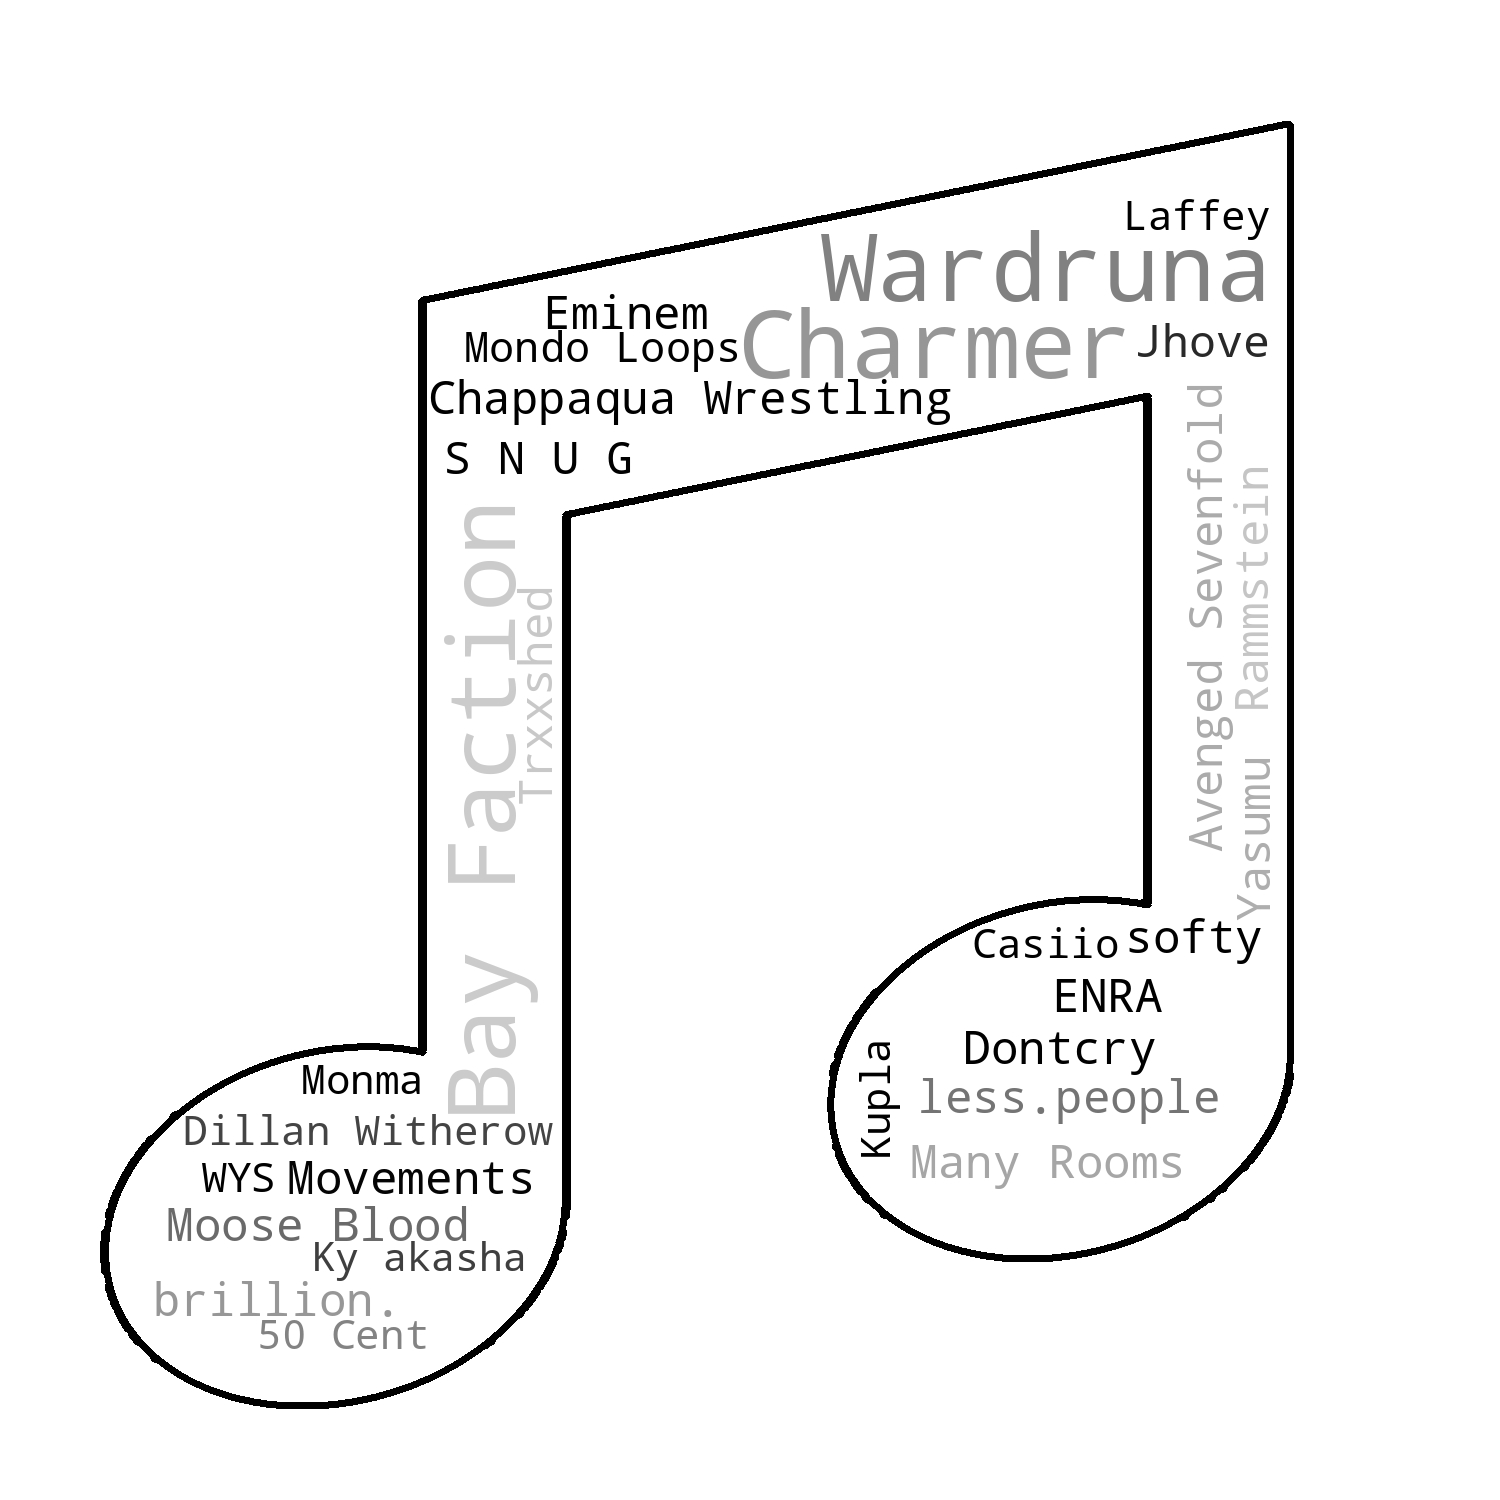
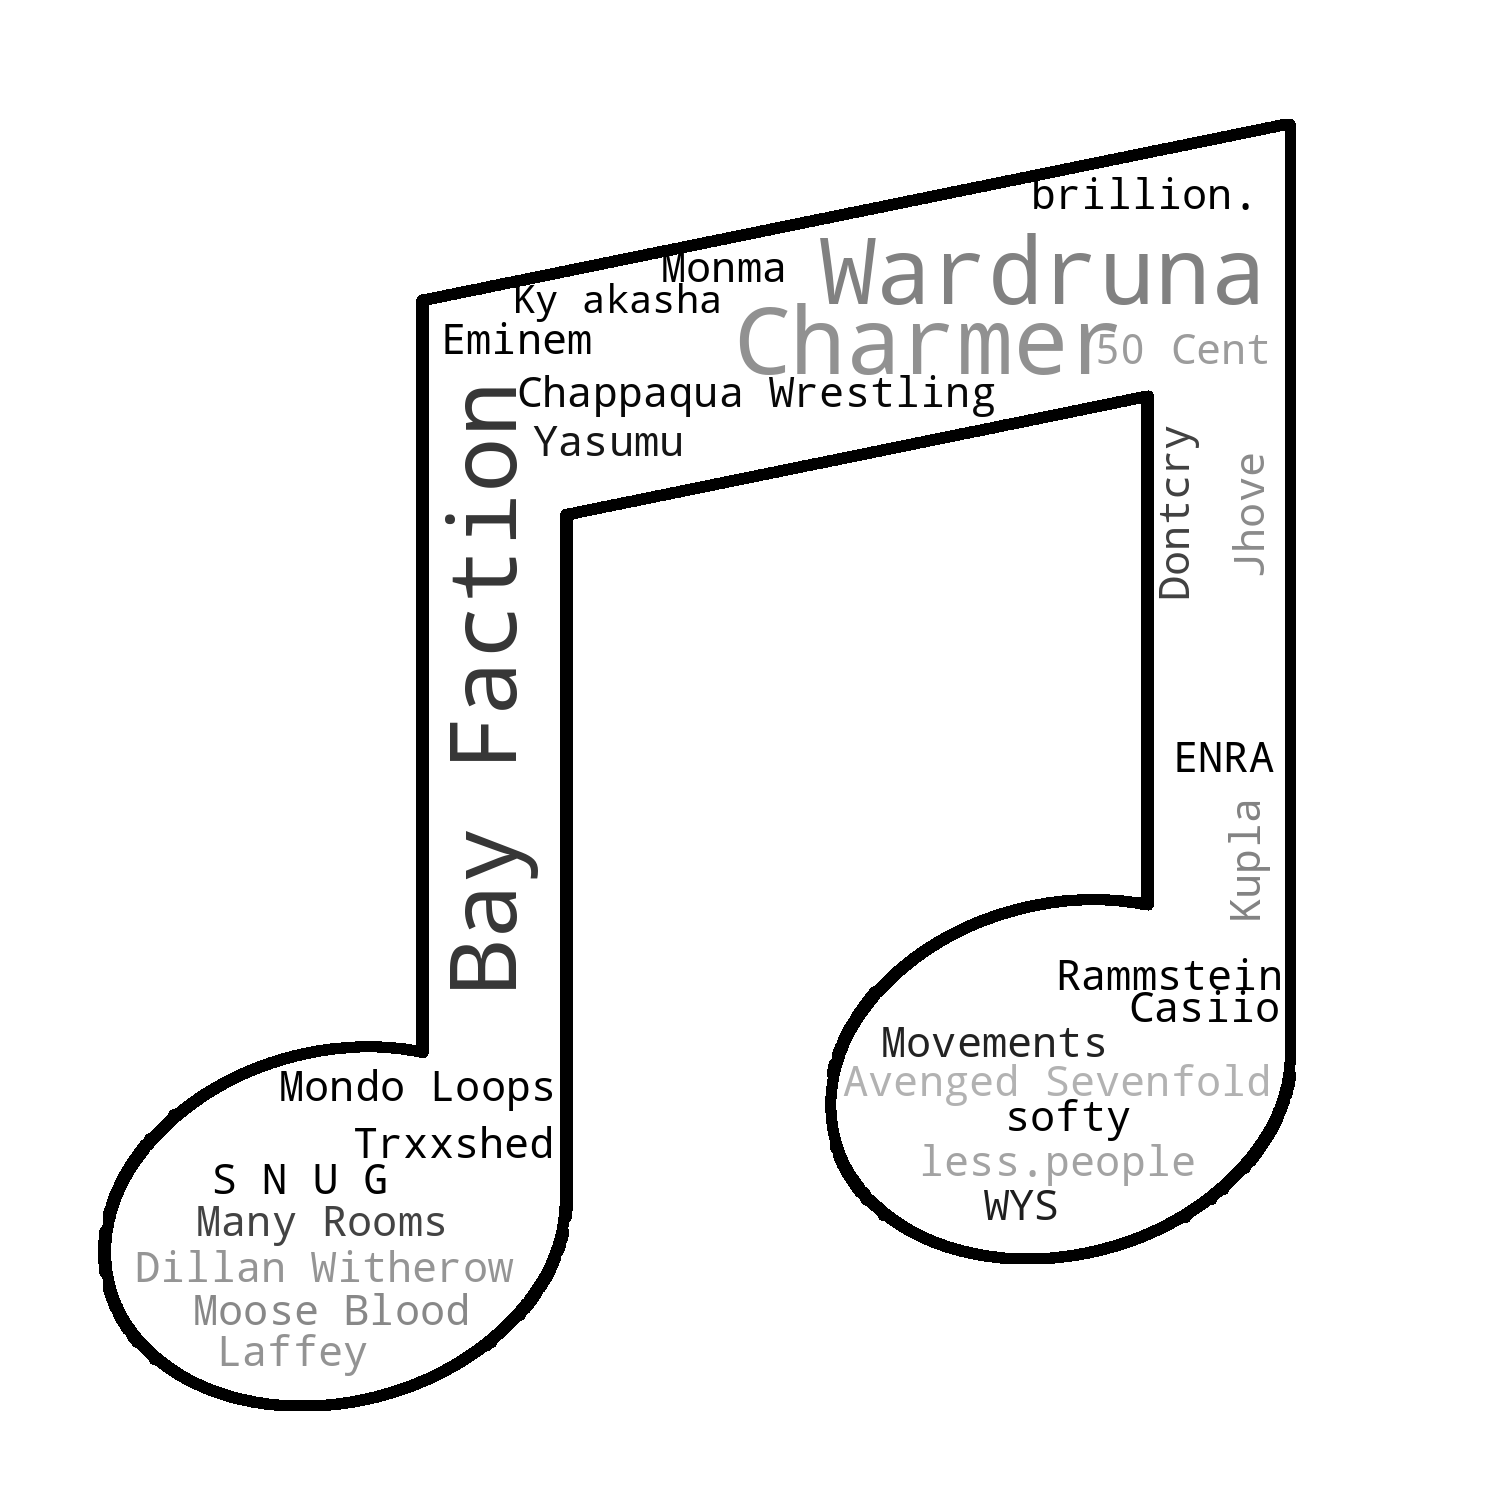
Cloud script adjustment

diff --git a/templates/index.html b/templates/index.html
@@ -1,5 +1,5 @@
 <h1>Stats</h1>
 
 {% load static %}
-<img src="{% static 'artists.png' %}"/>
-<img src="{% static 'genres.png' %}"/>
+<img src="{% static 'artists.png' %}" />
+<img src="{% static 'genres.png' %}" width="600" height="600"/>

diff --git a/art/cloud.py b/art/cloud.py
@@ -19,11 +19,17 @@ def generateWordCloud(word_list, mask_name, out_name):
     wc = WordCloud(
         background_color='white',
         mask=custom_mask,
-        contour_width=10,
+        contour_width=20,
         contour_color='black',
         color_func=img_colors
     ).generate_from_frequencies(words)
 
+    '''
+    svg = wc.to_svg()
+    f = open("testttt.svg", "w+")
+    f.write(svg)
+    f.close()
+    '''
 
     # Output wordcloud to assets
     wc.to_file(OUT_PATH)

diff --git a/art/views.py b/art/views.py
@@ -33,7 +33,7 @@ def index(request):
 
     # Generate word cloud from top artist/genres names
     cloud.generateWordCloud(top_artists_list, "note", "artists")
-    cloud.generateWordCloud(top_genres_list, "single", "genres")
+    cloud.generateWordCloud(top_genres_list, "single_out", "genres")
 
     return render(request, 'index.html')
 
